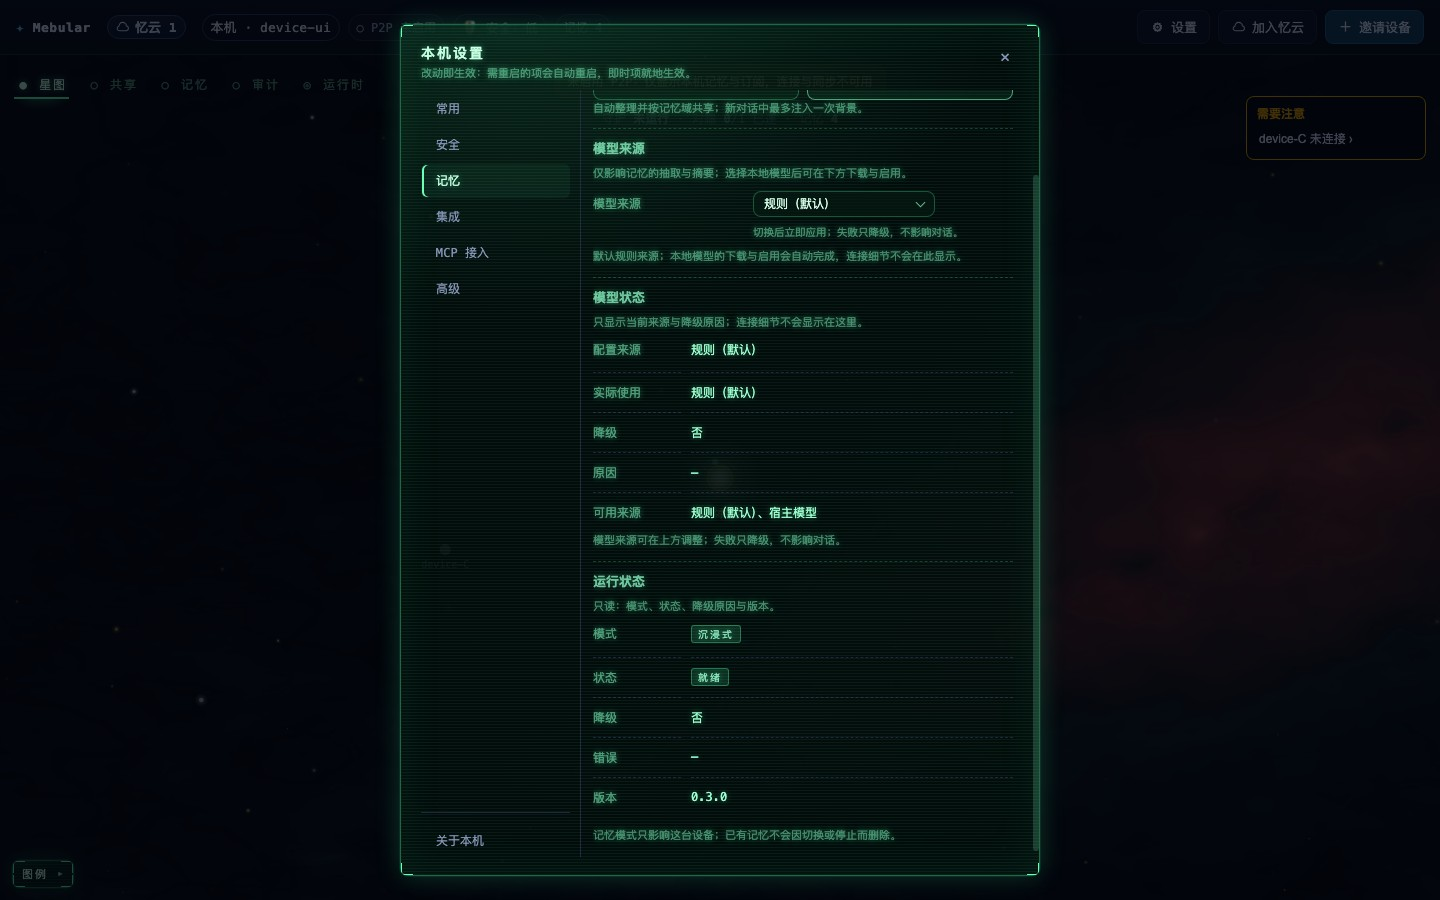
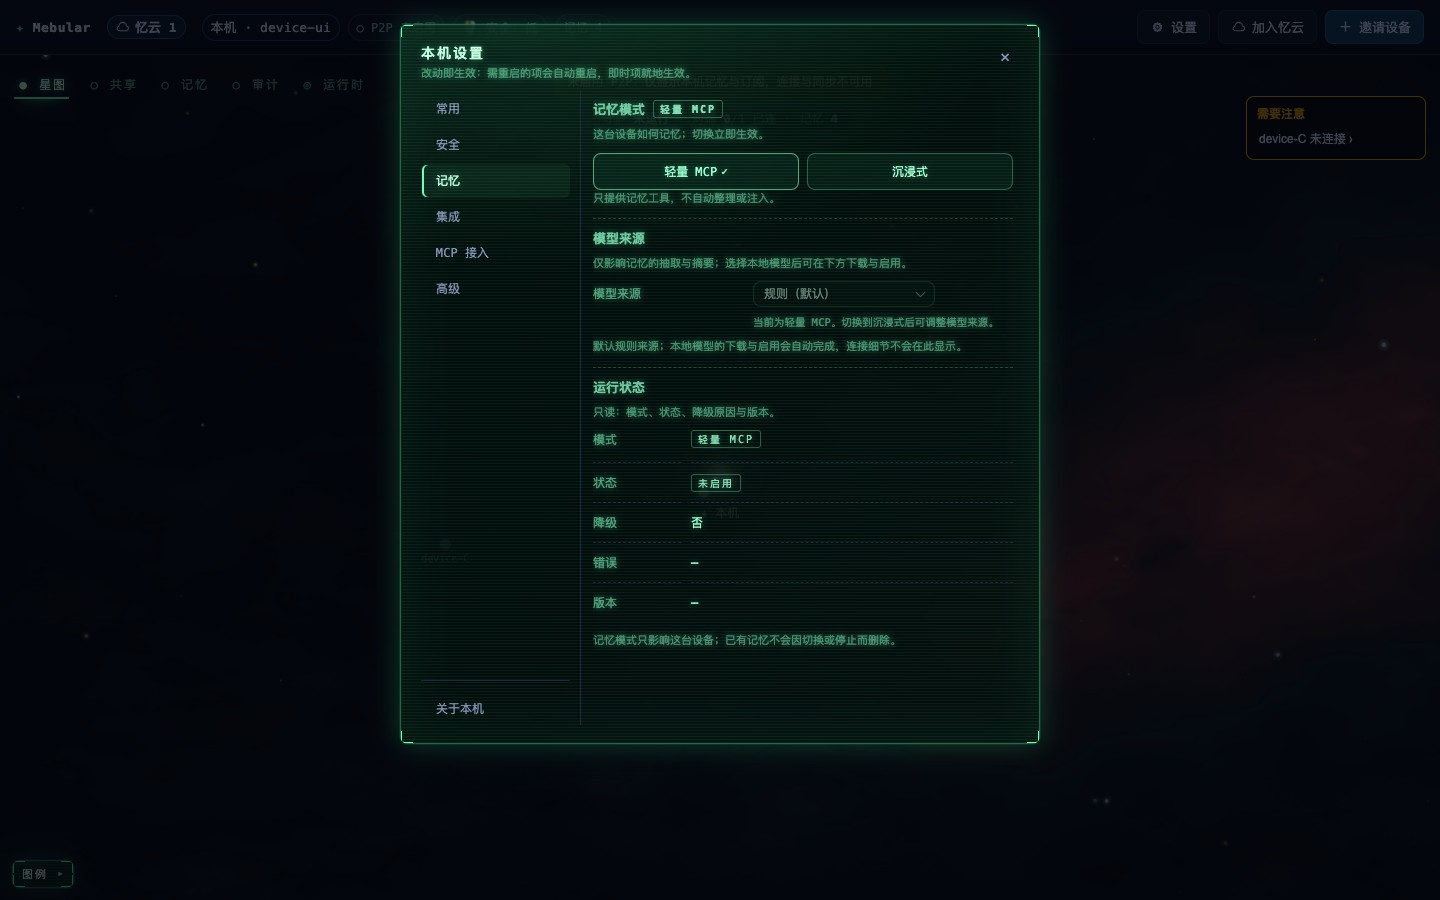
fix(console): fix settings modal height

diff --git a/packages/console/console.css b/packages/console/console.css
@@ -558,7 +558,11 @@ body.modal-open { overflow: hidden; }
 }
 .modal-x:hover { color: var(--crt-bright, #9dffcf); border-color: var(--border); background: rgba(10, 16, 32, 0.55); }
 .modal-x:focus-visible { outline: 2px solid var(--accent); outline-offset: 2px; }
-.modal-box.modal-settings { display: flex; flex-direction: column; overflow: hidden; padding: 18px 0 18px 20px; scrollbar-gutter: auto; }
+.modal-box.modal-settings {
+  display: flex; flex-direction: column; overflow: hidden;
+  height: min(720px, calc(100vh - 48px));
+  padding: 18px 0 18px 20px; scrollbar-gutter: auto;
+}
 .modal-settings .modal-head { padding-right: 20px; }
 .modal-settings #settings-body { display: flex; flex-direction: column; flex: 1 1 auto; min-width: 0; min-height: 0; max-width: 100%; }
 .modal-settings .settings-tabs { flex: 0 0 auto; min-width: 0; max-width: 100%; margin: 0; }

diff --git a/docs/console/screens/u4-settings-redesign/README.md b/docs/console/screens/u4-settings-redesign/README.md
@@ -1,11 +1,11 @@
 # U-4 · 设置弹层改版（竖轨 + 统一行模板 + 安全卡状态）截图基线
 
-基线：`feat/console-settings-redesign` 的 A–E 六次提交之后（rebase 前 E 提交为 `0d1d43b`）。本目录补的是 U-4 改版后的设置弹层视觉基线；U-1 / U-3 目录里对应的 after 截图已同步刷新。
+基线：`feat/console-settings-redesign` 的 A–F、常用页收口与固定高度之后。本目录补的是 U-4 改版后的设置弹层视觉基线；U-1 / U-3 目录里对应的 after 截图已同步刷新。
 
 ## 范围
 
 - **竖轨**：≥901px 为左侧 160px 固定页签轨（`常用 / 安全 / 记忆 / 集成 / MCP 接入 / 高级`，底部「关于本机」）；≤900px 折叠为顶部横排；≤760px 继续换行。
-- **固定外壳**：标题 + 「改动即生效」提示常驻，页签轨不滚，只有内容列 `.settings-scroll` 滚动；滚动时轨与底部「关于本机」不动。
+- **固定外壳**：标题 + 「改动即生效」提示常驻；弹层固定 720px 高（中英文常用页均能容纳），切换页签不再跳高；页签轨不滚，只有内容列 `.settings-scroll` 滚动；滚动时轨与底部「关于本机」不动。
 - **统一行模板**：字段行 `label | control | status` 三列，只读行 `label | value | action`；正常状态显示纯文字「生效中」，异常才是琥珀「待重启 / 未生效」。
 - **模型来源在记忆页**：`记忆` 页签内「记忆模式 → 模型来源 → 模型状态 → 运行状态」，高级页不再混入模型来源。
 - **安全卡状态**：三张状态卡（安全等级 / 动态码种子 / 恢复码），`is-effective`（实心点 + 左侧荧光条）/ `is-off`（空心点 + 中性底）；待批准行只在有记录时出现。
@@ -18,7 +18,7 @@
 | 文件 | 说明 |
 |---|---|
 | `u4-after-settings-common-1440.jpg` | 常用：语言行 + 常驻运行 + 自动修复 + 只读状态 + 忆云卡 |
-| `u4-after-settings-memory-1440.jpg` | 记忆：记忆模式 / 模型来源（唯一入口）/ 模型状态 / 运行状态 |
+| `u4-after-settings-memory-1440.jpg` | 记忆：记忆模式 / 模型来源（唯一入口）/ 运行状态；模型状态仅在沉浸式显示 |
 | `u4-after-settings-security-1440.jpg` | 安全：三张状态卡 = 生效（等级）+ 未配置（种子/恢复码） |
 | `u4-after-settings-mcp-1440.jpg` | MCP 接入：连接 / TLS 两组 + 三列状态列 |
 | `u4-after-settings-advanced-1440.jpg` | 高级：常驻服务 / 网络 / 自动化 + 诊断与恢复折叠 |
